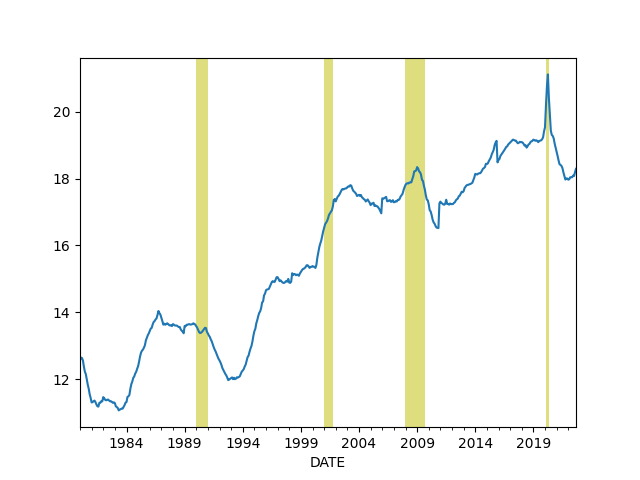
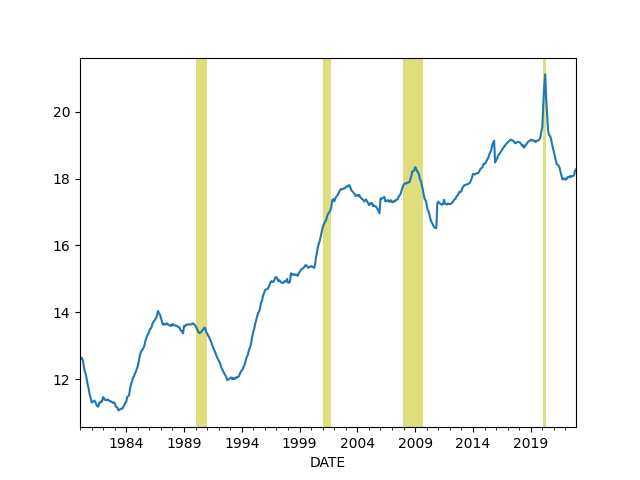
--

diff --git a/en/mbl/2023/util.py b/en/mbl/2023/util.py
@@ -220,11 +220,11 @@ def biz_stock_plot(year,ticker):
     df = pd.read_csv(file,index_col='Date',parse_dates=True)['Close']
     df.plot()
 
-def rotom_mov(movie):
+def rottentomatoes_mov(movie):
     return {"tomatometer score": rt.tomatometer(movie),
             "audience score": rt.audience_score(movie)}
 
-def rotom_tv(movie):
+def rottentomatoes_tv(movie):
     rel = movie.replace(" ","_").lower()
     url = "https://www.rottentomatoes.com"
     url = url + "/tv/" + rel       

diff --git a/en/mbl/2023/tst.md b/en/mbl/2023/tst.md
@@ -6,28 +6,13 @@ pd.set_option('display.max_columns', None)
 ```
 
 
-
-
-
 ```python
-u.rotom_mov("Ant-Man and the Wasp")
-```
-
-```text
-Out[1]: {'tomatometer score': 49, 'audience score': 84}
-```
-
-
-```python
-u.rotom_tv("Star Trek Discovery")
+u.rottentomatoes_tv("Star Trek Discovery")
 ```
 
 ```text
 Out[1]: {'tomatometer score': '84%', 'audience score': '36%'}
 ```
-
-
-
 
 
 

diff --git a/en/2021/01/stats.md b/en/2021/01/stats.md
@@ -583,10 +583,10 @@ plt.savefig('debt.png')
 
 ```text
 DATE
-2022-06-01    18.090399
-2022-07-01    18.077232
-2022-08-01    18.194686
-2022-09-01    18.291873
+2022-09-01    18.075573
+2022-10-01    18.104841
+2022-11-01    18.231530
+2022-12-01    18.275785
 Freq: MS, Name: debt, dtype: float64
 ```
 

diff --git a/en/2023/01/usmil.md b/en/2023/01/usmil.md
@@ -14,7 +14,7 @@ on David Vine's work.
 
 ```python
 
-clat,clon=33.01136975577918, 40.98527636859822
+clat,clon=33, 40
 
 m = folium.Map(location=[clat, clon], zoom_start=7, tiles="Stamen Terrain")
 
